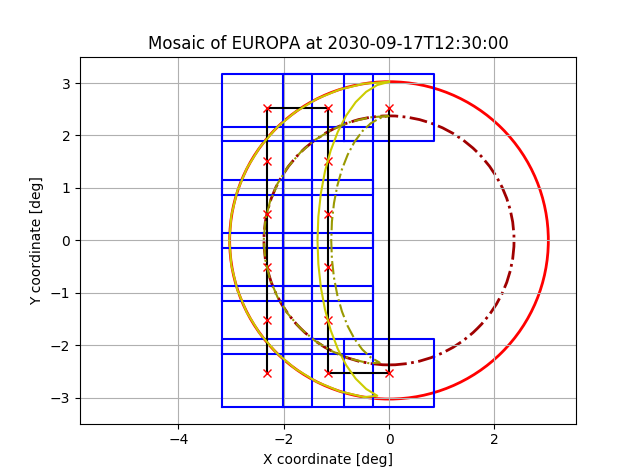
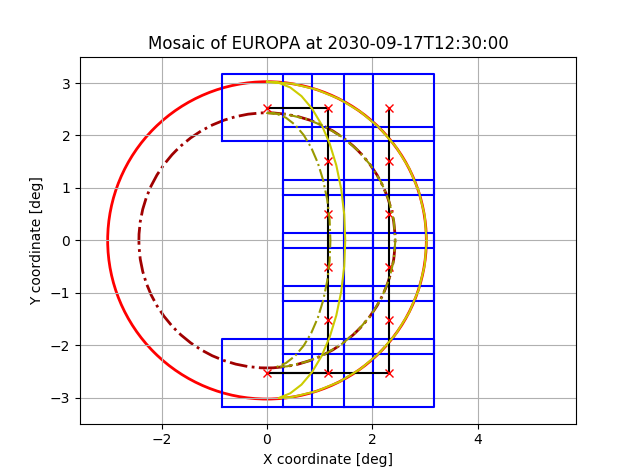
Fix computation of terminator points in sunside mosaic, add Jupiter example to README

diff --git a/mosaics/misc.py b/mosaics/misc.py
@@ -155,23 +155,20 @@ def get_illuminated_shape(probe: str, body: str, time: datetime, unit: str) -> P
     ncuts = 20
 
     sun_position_from_probe = spy.spkpos("SUN", et, f"IAU_{body}", "LT+S", probe)[0]
-    is_sun_on_right = sun_position_from_probe[0] > 0
     body_position_from_probe = spy.spkpos(body, et, f"IAU_{body}", "LT+S", probe)[0]
 
     probe_position_from_body = spy.spkpos(probe, et, f"IAU_{body}", "LT+S", body)[0]
     sun_position_from_body = spy.spkpos("SUN", et, f"IAU_{body}", "LT+S", body)[0]
-    probe_sun_angle = spy.vsep(probe_position_from_body, sun_position_from_body)
-    is_terminator_on_right = ((is_sun_on_right and probe_sun_angle > np.pi/2) or (not is_sun_on_right and probe_sun_angle < np.pi/2))
 
     x_z_plane_normal_vector = spy.vcrss(sun_position_from_probe, body_position_from_probe)
     y_z_plane_normal_vector = spy.vcrss(body_position_from_probe, x_z_plane_normal_vector)
 
-    step_limb = - np.pi/ncuts if is_sun_on_right else np.pi/ncuts
+    step_limb = - np.pi/ncuts
     limb_points = spy.limbpt("TANGENT/ELLIPSOID", body, et, f"IAU_{body}", "LT+S",
                              "CENTER", probe, x_z_plane_normal_vector, step_limb, ncuts, 1.0, 1.0, ncuts)[3]
     assert(len(limb_points==ncuts))
 
-    step_terminator = np.pi/ncuts if is_terminator_on_right else - np.pi/ncuts
+    step_terminator = np.pi/ncuts
     terminator_points = spy.termpt("UMBRAL/TANGENT/ELLIPSOID", "SUN", body, et, f"IAU_{body}", "LT+S",
                                    "CENTER", probe, x_z_plane_normal_vector, step_terminator, ncuts, 1.0, 1.0, ncuts)[3]
     assert(len(terminator_points<=ncuts))

diff --git a/sandbox.py b/sandbox.py
@@ -32,3 +32,19 @@ cm = jmg.generate_sunside_mosaic(start_time,
 
 cm.plot()
 print(cm.generate_PTR(decimal_places=3))
+
+spy.unload(MK_C32)
+MK_C30 = r"C:\Users\Marcel Stefko\Kernels\JUICE\mk\juice_crema_3_0_v151.tm"
+spy.furnsh(MK_C30)
+
+# Jupiter mosaic during perijove
+start_time = datetime.strptime("2030-05-31T22:40:47", "%Y-%m-%dT%H:%M:%S")
+jmg = JanusMosaicGenerator("JUPITER", "min", "deg")
+dm = jmg.generate_optimized_mosaic_iterative(start_time,
+                                             max_exposure_time_s=60,
+                                             max_smear=0.25,
+                                             stabilization_time_s=5,
+                                             no_of_filters=12,
+                                             extra_margin=0.05)
+print(dm.generate_PTR(decimal_places=3))
+dm.plot()

diff --git a/README.md b/README.md
@@ -5,12 +5,11 @@ and generating mosaic instructions.
 
 _Note: None of the tools properly documented actually integrates
  into SPICE yet. The Flyby package is a work in progress._
-## Available packages
 
-### timestamps.py
- - Translating between relative and absolute timestamps, e.g.
+## timestamps.py
+ - Translate between relative and absolute timestamps in MAPPS config files, e.g.
  `CLS_APP_CAL +06:28:00` to `2031-04-26T05:08:47Z`, and vice versa.
- - Batch processing timestamps in ITL files.
+ - Batch process timestamps in ITL files.
 
 ```python
 >>> from timestamps import TimestampProcessor
@@ -30,11 +29,12 @@ _Note: None of the tools properly documented actually integrates
 True
 ```
 
-### power_analysis.py
-Performing analysis of consumed resources on MAPPS output data:
+## power_analysis.py
+Perform analysis of consumed resources on a MAPPS scenario.
 ```python
 >>> from matplotlib import pyplot as plt
 >>> from power_analysis import PowerConsumptionGraph
+# Import MAPPS datapack containing spacecraft resource data
 >>> pcg = PowerConsumptionGraph("14C6", '2031-04-25T22:40:47',
 ...                            r"tests\14c6_test_attitude_and_data.csv",
 ...                            power_limit_Wh=4065.0)
@@ -61,6 +61,8 @@ Performing analysis of consumed resources on MAPPS output data:
 
 ```python
 >>> from power_analysis import DataConsumptionGraph
+# We can use the same datapack, as long as it contains required fields
+# with data consumption values.
 >>> dcg = DataConsumptionGraph("14C6", '2031-04-25T22:40:47',
 ...                            r"tests\14c6_test_attitude_and_data.csv",
 ...                            data_limit_Mbits=30000.0)
@@ -85,8 +87,8 @@ Performing analysis of consumed resources on MAPPS output data:
 
 ![](img/data_graph.png)
 
-### mosaics
-Creating optimized mosaics and generating PTX requests.
+## mosaics
+This module allows you to automatically create mosaics of
 ```python
 >>> from datetime import datetime
 >>> import spiceypy as spy
@@ -234,7 +236,26 @@ JANUS MOSAIC ITERATIVE GENERATOR REPORT:
 
 ![](img/JANUS_sunside_mosaic.png)
 
-### flybys.py
+```python
+>>> spy.unload(MK_C32)
+>>> MK_C30 = r"C:\Users\Marcel Stefko\Kernels\JUICE\mk\juice_crema_3_0_v151.tm"
+>>> spy.furnsh(MK_C30)
+
+# Jupiter mosaic during perijove
+>>> start_time = datetime.strptime("2030-05-31T22:40:47", "%Y-%m-%dT%H:%M:%S")
+>>> jmg = JanusMosaicGenerator("JUPITER", "min", "deg")
+>>> dm = jmg.generate_optimized_mosaic_iterative(start_time,
+                                                 max_exposure_time_s=60,
+                                                 max_smear=0.25,
+                                                 stabilization_time_s=5,
+                                                 no_of_filters=12,
+                                                 extra_margin=0.05)
+>>> dm.plot()
+```
+
+![](img/JANUS_Jupiter_mosaic.png)
+
+## flybys.py
 Tools for analyzing various properties of flybys such as surface coverage, resolution,
 altitude, etc.
 
